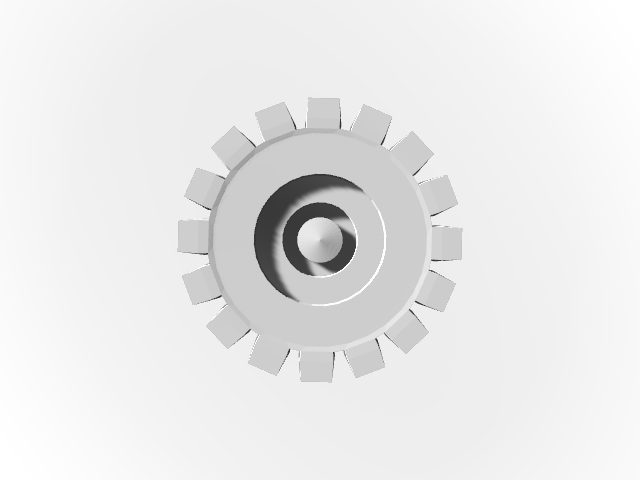
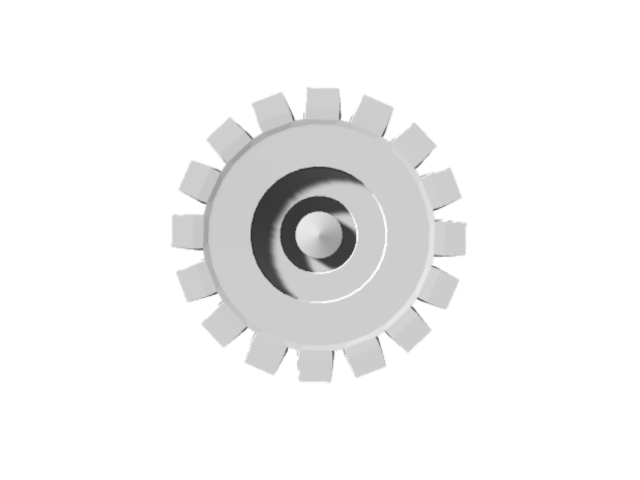
Fixed look of website
- Fixed gear png to have transparent background
- Added code to homescript.js to scale png.
- Updated CSS
- Header and icons on same horizontal
- Icons vertically organized in column

diff --git a/index.html b/index.html
@@ -7,19 +7,20 @@
     <link rel="stylesheet" href="styles.css">
 </head>
 <body>
-    <header>
-        Stezzly'z Collection
-
+    <header class="header-container">
+        <div class="header-text">
+            <center><h1>Stezzly'z Collection</h1>
+                <h3>Work in Progress!!!</h3></center>
+            
+        </div>
         <div class="icons-container">
-            <a href  = index.html class="icon" aria-label="Computer icon" role="img">&#x1F4BB;</a> <!-- Button for indexing the main page -->
-            <a href = "About_Me_Contact.html" class="icon" aria-label="Book icon" role="img"> &#x1F4DA;</a> <!-- Button for indexing readMe or socials page -->
-            <a href = "Settings.html" class="icon" aria-label="Settings Icon" role="img">&#x1F6E0;</a> <!-- Button for indexing settings page -->
+            <a href  = index.html class="icon" aria-label="Computer icon" role="img">&#x1F4BB;</a> 
+            <a href = "About_Me_Contact.html" class="icon" aria-label="Book icon" role="img"> &#x1F4DA;</a> 
+            <a href = "Settings.html" class="icon" aria-label="Settings Icon" role="img">&#x1F6E0;</a>
+            <a href="#" id="darkModeToggleBtn" class="icon dark-mode-toggle" aria-label="Dark Mode Toggle" role="img">🌙</a>  
         </div>
+    
         
-        <!-- Add the dark mode toggle button with an id -->
-        <div id="darkModeToggleBtn" class="dark-mode-toggle">
-            🌙
-        </div>
     </header>
 
     <main>
@@ -35,8 +36,7 @@
             <a href="Game_Development.html" class="centered-box">Game Development</a>
             <a href="3D_Modelling.html" class="centered-box">3D Modelling</a>
             <a href="Coding.html" class="centered-box">Coding</a>
-        </div>
-        
+        </div>        
     </main>
     
 
@@ -44,8 +44,6 @@
         Have fun coders!
     </footer>
 
-    <script src="homescript.js"></script>
-    <!--Add redirects to other file - redirect.js or other-->
-    
+    <script src="homescript.js"></script>    
 </body>
 </html>

diff --git a/styles.css b/styles.css
@@ -9,12 +9,20 @@ body {
 header {
     background-color: #1702dac9;
     padding: 1rem;
-    text-align: center;
     font-size: 2rem;
     color: #100147;
+    
 }
 
+.header-container {
+    display: flex;
+    align-items: center;
+}
 
+.header-text {
+    flex-grow: 1; /* Allow for header and icons on same horizontal */
+    margin-left: 111px; /* Dirty way to center header text */
+}
 
 .intro {
     font-size: 1.5rem;
@@ -24,9 +32,11 @@ header {
 
 .icons-container {
     display: flex;
-    justify-content: right;
-    align-items: center;
+    flex-direction: column; 
+    justify-content: flex-end;  
+    align-items: flex-end;  
 }
+
 
 
 .icon {
@@ -48,9 +58,6 @@ a.icon {
 }
 
 .dark-mode-toggle {
-    position: absolute;
-    top: 1rem;
-    right: 1rem;
     font-size: 2rem;
     cursor: pointer;
     color: #a0a0a0;
@@ -62,7 +69,7 @@ a.icon {
 }
 
 main {
-    padding: 2rem; /* Increased padding for better spacing */
+    padding: 2rem; 
     text-align: center;
     position: relative;
 }
@@ -74,7 +81,7 @@ main {
 
 #gears {
     display: block;
-    margin: 0 auto; /* Center the canvas horizontally */
+    margin: 0 auto; 
 }
 
 .overlay-container {
@@ -100,13 +107,13 @@ main {
     margin: 20px;
     cursor: pointer;
     pointer-events: auto;
-    border-radius: 10px; /* Adjusted border-radius for rounded corners */
+    border-radius: 10px; 
     transition: background-color 0.3s ease-in-out, box-shadow 0.3s ease-in-out;
 }
 
 .centered-box:hover {
-    background-color: #010c70; /* Change color on hover */
-    box-shadow: 0 0 10px rgba(0, 0, 0, 0.3); /* Add box shadow on hover */
+    background-color: #010c70; 
+    box-shadow: 0 0 10px rgba(0, 0, 0, 0.3); 
 }
 
 

diff --git a/homescript.js b/homescript.js
@@ -28,7 +28,20 @@ document.addEventListener("DOMContentLoaded", function () {
             context.save();
             context.translate(this.x, this.y);
             context.rotate(this.rotationAngle);
-            context.drawImage(this.image, -this.radius, -this.radius, this.radius * 2, this.radius * 2);
+        
+            // Scale the image 
+            const scaleFactor = 0.3; 
+            const scaledWidth = this.image.width * scaleFactor;
+            const scaledHeight = this.image.height * scaleFactor;
+        
+            context.drawImage(
+                this.image,
+                -scaledWidth / 2,
+                -scaledHeight / 2,
+                scaledWidth,
+                scaledHeight
+            );
+        
             context.restore();
         };
 
@@ -56,11 +69,12 @@ document.addEventListener("DOMContentLoaded", function () {
     }
 
     // Function to create an array of gears based on screen size
+    // Odd columns will create uncentered array on horizontal
     function createGears() {
-        const numRows = 20;
-        const numCols = 20;
-        const paddingX = 50;
-        const paddingY = 50;
+        const numRows = 9;
+        const numCols = 10;
+        const paddingX = 60;
+        const paddingY = 60;
 
         const gearWidth = (window.innerWidth - paddingX) / numCols;
         const gearHeight = (window.innerHeight - paddingY) / numRows;

diff --git a/3D_Modelling.html b/3D_Modelling.html
@@ -5,6 +5,7 @@
     <meta name="viewport" content="width=device-width, initial-scale=1.0">
     <title>3D Modelling</title>
     
+    
     <style>
         body {
             font-family: Arial, sans-serif;
@@ -25,14 +26,16 @@
         .grid-item {
             background-color: #fff;
             border: 2px solid #ccc;
-            padding: 100px; /* Adjusted padding for a more balanced appearance */
+            padding: 100px; 
             text-align: center;
             width: 100%;
-            transition: transform 0.2s; /* Adding a smooth transition effect */
+            transition: transform 0.2s; 
+            box-sizing: border-box; 
         }
 
+
         .grid-item:hover {
-            transform: scale(1.05); /* Scale up on hover for an interactive effect */
+            transform: scale(1.05); 
         }
 
         .box-link {
@@ -58,16 +61,14 @@
         <!-- Box 2 -->
         <a href="#" class="box-link">
             <div class="grid-item">
-                <!-- Add content for the second box -->
-                Box 2
+                Model 2
             </div>
         </a>
 
         <!-- Example Box 3 -->
         <a href="#" class="box-link">
             <div class="grid-item">
-                <!-- Add content for the third box -->
-                Box 3
+                Model 3
             </div>
         </a>
     </div>

diff --git a/3DModelLinks/Gear.html b/3DModelLinks/Gear.html
@@ -5,6 +5,9 @@
     <meta name="viewport" content="width=device-width, initial-scale=1.0">
     <title>Gear</title>
 </head>
+<header>
+    <h1>The Gear</h1>
+</header>
 <body>
     <model-viewer src = "/3DModels_Basic/gear/scene.gltf" alt="3D Gear Model" auto-rotate camera-controls></model-viewer>
 </body>
